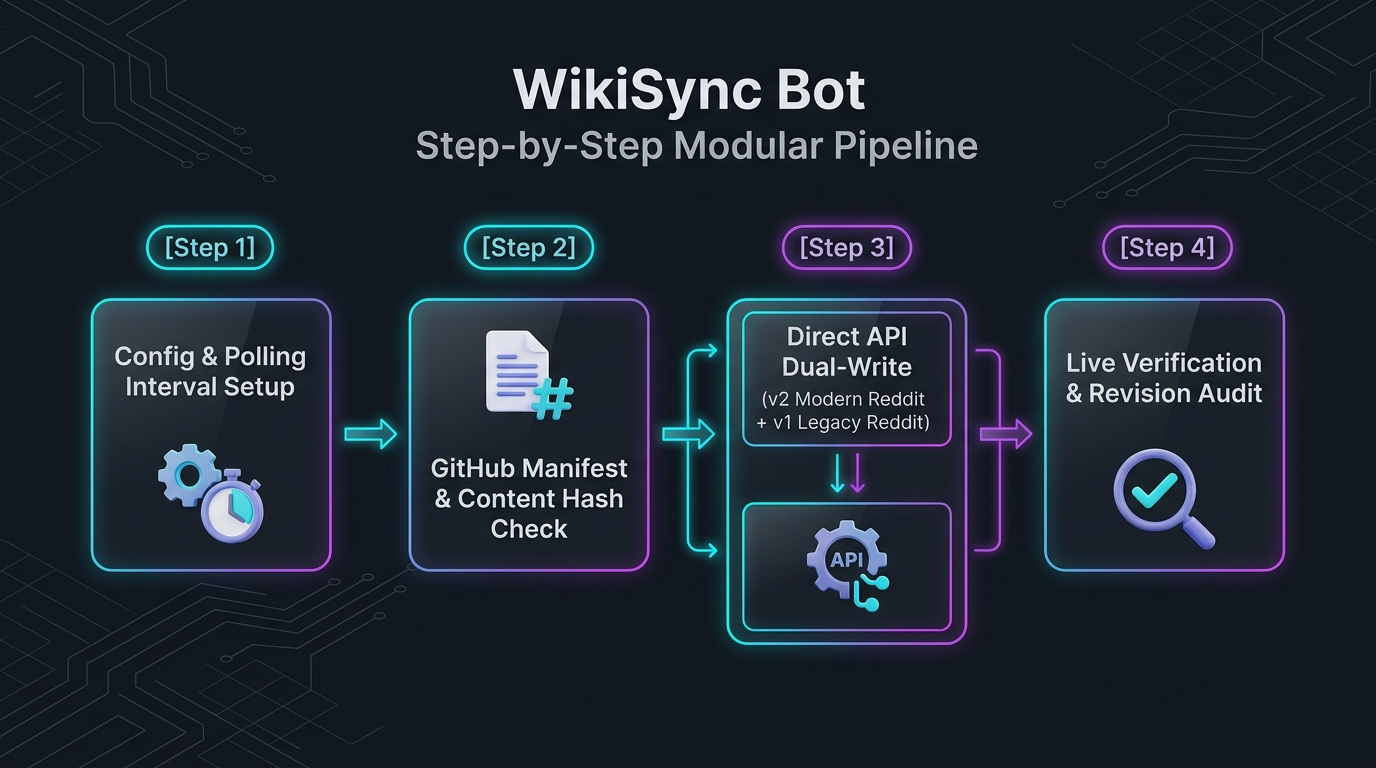
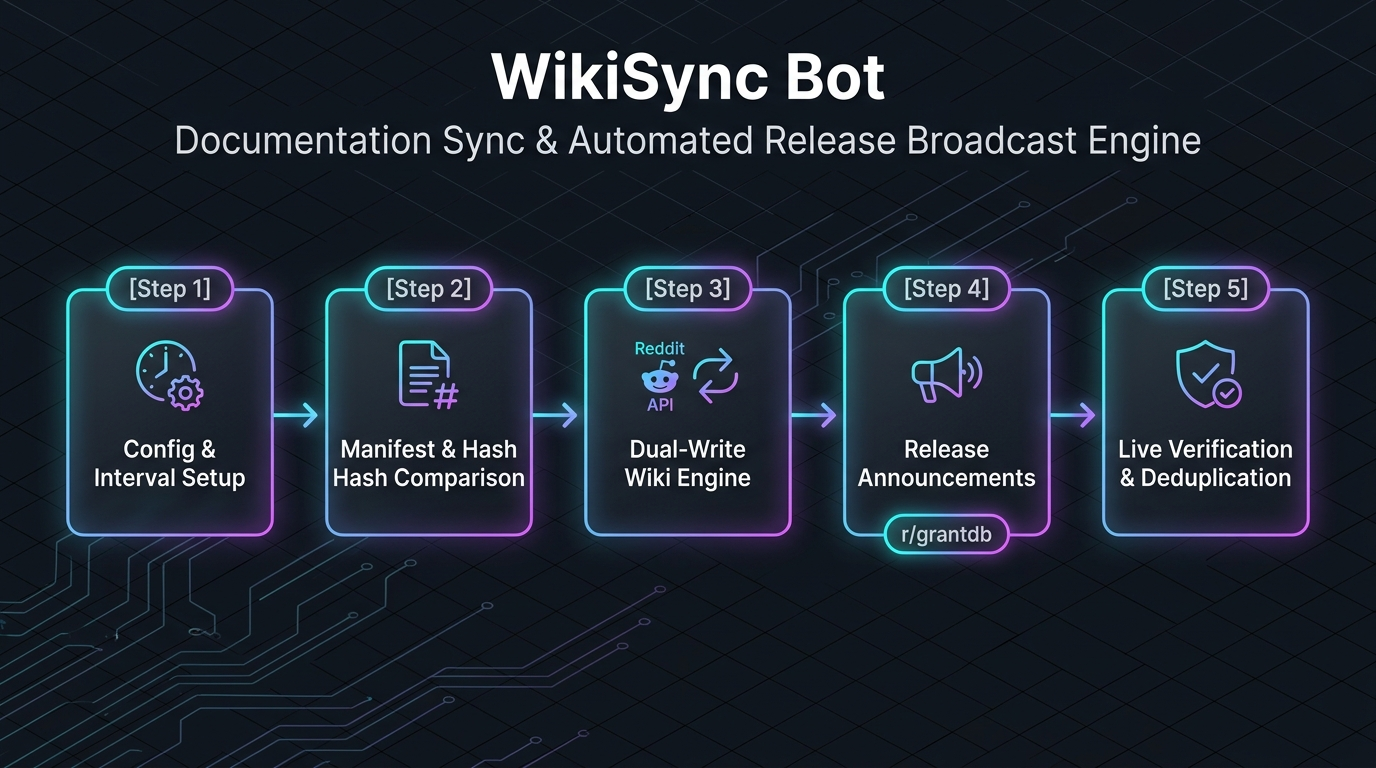
chore: update assets for wiki-sync-bot v0.0.23

diff --git a/wiki-sync-bot/readme.html b/wiki-sync-bot/readme.html
@@ -12,7 +12,8 @@
 <li><strong>Dual-Version Subreddit Wiki Writes</strong>: Direct programmatic synchronization to both modern (`v2`) and legacy (`v1`) Reddit wiki endpoints.</li>
 <li><strong>Support Schema Synchronization</strong>: Automatically deploys `bot_knowledge` JSON payloads to `r/grantdb/wiki/bot_knowledge` bypassing rich-text quote mangling.</li>
 <li><strong>Fleet Documentation Sync</strong>: Incremental background hash comparison and synchronization across all fleet application documentation pages.</li>
-<li><strong>Unified Moderator Menu Popout</strong>: Open <strong>WikiSync Bot</strong> from the subreddit overflow menu (`...`) to run incremental syncs, single-app updates, full re-syncs, or schema deployments.</li>
+<li><strong>Automated Release Announcements</strong>: Automatically detects new app releases and publishes structured update threads with changelog notes and wiki guides directly to <strong>r/grantdb</strong>.</li>
+<li><strong>Unified Moderator Menu Popout</strong>: Open <strong>WikiSync Bot</strong> from the subreddit overflow menu (`...`) to run incremental syncs, single-app updates, full re-syncs, schema deployments, or broadcast immediate app release announcements.</li>
 <li><strong>Moderator-Restricted Controls</strong>: Built-in permissions ensuring only authorized community moderators can trigger wiki sync operations.</li>
 </ul>
 <p>---</p>
@@ -21,20 +22,21 @@
 <h2>How It Works</h2>
 <p><a href="https://raw.githubusercontent.com/grantdb/reddit-app-legal/main/assets/flowcharts/wiki-sync-bot-flowchart.png">Logic Flowchart</a></p>
 <h3>Your Four-Step Workflow</h3>
-<p>1. <strong>Install \u0026 Schedule</strong>: WikiSync Bot automatically schedules a recurring 15-minute background sync and configures test targets in Mod Tools > App Settings.</p>
-<p>2. <strong>Sync Manifest</strong>: WikiSync Bot checks the remote fleet manifest (`wiki-manifest.json`) for updated content hashes.</p>
-<p>3. <strong>Dual-Write Engine</strong>: Fetches clean HTML/JSON payloads from GitHub and writes directly to Reddit wiki endpoints (`index/all-apps/<slug>` + `<slug>` + `bot_knowledge`).</p>
-<p>4. <strong>Live Verification</strong>: Reads back and verifies the updated wiki page revisions, updating local cache.</p>
+<p>1. <strong>Install & Schedule</strong>: WikiSync Bot automatically schedules a recurring 15-minute background sync and configures test targets in Mod Tools > App Settings.</p>
+<p>2. <strong>Sync Manifest</strong>: WikiSync Bot checks the remote fleet manifest (`wiki-manifest.json`) and release manifest (`releases/manifest.json`).</p>
+<p>3. <strong>Dual-Write & Broadcast Engine</strong>: Fetches clean HTML/JSON payloads from GitHub, writes directly to Reddit wiki endpoints, and posts release announcements for newly shipped versions.</p>
+<p>4. <strong>Live Verification & Deduplication</strong>: Reads back and verifies the updated wiki page revisions and caches announcement IDs in Redis to guarantee zero duplicate posts.</p>
 <p>---</p>
 <h2>Quick Setup</h2>
 <p>1. <strong>Install</strong>: Add <strong>WikiSync Bot</strong> to your subreddit.</p>
-<p>2. <strong>Configure</strong>: Open <strong>Mod Tools > App Settings > WikiSync Bot</strong>.</p>
+<p>2. <strong>Configure</strong>: Open <strong>Mod Tools > App Settings > WikiSync Bot</strong> to toggle wiki sync and release announcements.</p>
 <p>3. <strong>Trigger Operations</strong>: Open the subreddit menu (`...`), select <strong>WikiSync Bot</strong>, and choose your action:</p>
 <ul>
 <li><strong>Sync Changed Wiki Pages</strong>: Check manifest and update modified app pages incrementally.</li>
 <li><strong>Sync Single App Wiki</strong>: Fetch and update a specific app's documentation page.</li>
 <li><strong>Force Sync All Wiki Pages</strong>: Full re-synchronization of all fleet wiki pages in the background.</li>
 <li><strong>Sync Bot Knowledge Schema</strong>: Update `bot_knowledge` JSON schema directly.</li>
+<li><strong>Broadcast App Release Announcement</strong>: Immediately publish or re-publish an update announcement post for any fleet app.</li>
 </ul>
 <p>---</p>
 <h2>Support</h2>

diff --git a/wiki-sync-bot/wiki.html b/wiki-sync-bot/wiki.html
@@ -1,7 +1,7 @@
 <h1>WikiSync Bot</h1>
 
 <p>Category: Utility<br>
-Version: v0.0.22<br>
+Version: v0.0.23<br>
 Visibility: Unlisted<br>
 Summary: Subreddit wiki synchronization engine for Reddit communities.</p>
 
@@ -34,6 +34,7 @@ Summary: Subreddit wiki synchronization engine for Reddit communities.</p>
 <h2>Settings Reference</h2>
 <p>Subreddit moderators configure the app in Mod Tools -&gt; App Settings.</p>
 <ul>
+<li>enable_release_announcements: Enable App Release Announcements (boolean, default: true). Automatically post release notes and changelog announcements to r/grantdb when an app is updated.</li>
 <li>test_page_name: Test Wiki Page Path (paragraph, default: index/all-apps/wiki-sync-bot-test). The wiki page path to create or update (e.g. index/all-apps/wiki-sync-bot-test).</li>
 <li>test_content: Test Wiki Content (paragraph, default: # WikiSync Bot Test Page
 
@@ -54,18 +55,19 @@ This is a test wiki page created by WikiSync Bot manual verification.). Markdown
 <p>This app utilizes Reddit Redis storage for state management, caching, and rate limiting.</p>
 <ul>
 <li>Key-Value Strings (deduplication & cooldown markers)</li>
-<li>Key patterns: wikisync:hash:</li>
+<li>Key patterns: announcement:posted:, announcement:lock:, wikisync:hash:</li>
 </ul>
 
 <h2>Setup and Usage</h2>
 <ul>
 <li>Install: Add WikiSync Bot to your subreddit.</li>
-<li>Configure: Open Mod Tools > App Settings > WikiSync Bot.</li>
+<li>Configure: Open Mod Tools > App Settings > WikiSync Bot to toggle wiki sync and release announcements.</li>
 <li>Trigger Operations: Open the subreddit menu (`...`), select WikiSync Bot, and choose your action:</li>
 <li>Sync Changed Wiki Pages: Check manifest and update modified app pages incrementally.</li>
 <li>Sync Single App Wiki: Fetch and update a specific app's documentation page.</li>
 <li>Force Sync All Wiki Pages: Full re-synchronization of all fleet wiki pages in the background.</li>
 <li>Sync Bot Knowledge Schema: Update `bot_knowledge` JSON schema directly.</li>
+<li>Broadcast App Release Announcement: Immediately publish or re-publish an update announcement post for any fleet app.</li>
 </ul>
 
 <h2>Troubleshooting</h2>
@@ -75,11 +77,11 @@ This is a test wiki page created by WikiSync Bot manual verification.). Markdown
 </ul>
 
 <h2>Version History</h2>
+<p>0.0.23 — 2026-09-02<br>
+Standard fleet synchronization and maintenance.</p>
 <p>0.0.22 — 2026-08-31<br>
 Standard fleet synchronization and maintenance.</p>
 <p>0.0.21 — 2026-08-30<br>
-Standard fleet synchronization and maintenance.</p>
-<p>0.0.20 — 2026-08-25<br>
 Standard fleet synchronization and maintenance.</p>
 
 <h2>Links</h2>

diff --git a/wiki-sync-bot/readme.md b/wiki-sync-bot/readme.md
@@ -18,7 +18,8 @@ WikiSync Bot provides subreddit moderators with a high-reliability engine to pub
 - **Dual-Version Subreddit Wiki Writes**: Direct programmatic synchronization to both modern (`v2`) and legacy (`v1`) Reddit wiki endpoints.
 - **Support Schema Synchronization**: Automatically deploys `bot_knowledge` JSON payloads to `r/grantdb/wiki/bot_knowledge` bypassing rich-text quote mangling.
 - **Fleet Documentation Sync**: Incremental background hash comparison and synchronization across all fleet application documentation pages.
-- **Unified Moderator Menu Popout**: Open **WikiSync Bot** from the subreddit overflow menu (`...`) to run incremental syncs, single-app updates, full re-syncs, or schema deployments.
+- **Automated Release Announcements**: Automatically detects new app releases and publishes structured update threads with changelog notes and wiki guides directly to **r/grantdb**.
+- **Unified Moderator Menu Popout**: Open **WikiSync Bot** from the subreddit overflow menu (`...`) to run incremental syncs, single-app updates, full re-syncs, schema deployments, or broadcast immediate app release announcements.
 - **Moderator-Restricted Controls**: Built-in permissions ensuring only authorized community moderators can trigger wiki sync operations.
 
 ---
@@ -29,6 +30,7 @@ WikiSync Bot provides subreddit moderators with a high-reliability engine to pub
 | :--- | :--- |
 | Manually copying and pasting documentation across multiple subreddit wiki pages | **Automated background synchronization** comparing SHA-256 hashes and updating changed pages |
 | Rich-text editors corrupting JSON quotes into curly quotes | **Direct API dual-writes (v2 + v1)** preserving raw formatting perfectly |
+| Forgetting to post release announcements on r/grantdb | **Automated release broadcast engine** publishing changelogs directly to r/grantdb |
 | Complex custom OAuth2 wiki scripts on external VPS servers | **Native Devvit architecture** operating securely inside Reddit infrastructure |
 | Missing audit trails for wiki revisions | **Structured revision reasons** logged with every page creation and update |
 
@@ -40,22 +42,23 @@ WikiSync Bot provides subreddit moderators with a high-reliability engine to pub
 
 ### Your Four-Step Workflow
 
-1. **Install \u0026 Schedule**: WikiSync Bot automatically schedules a recurring 15-minute background sync and configures test targets in Mod Tools > App Settings.
-2. **Sync Manifest**: WikiSync Bot checks the remote fleet manifest (`wiki-manifest.json`) for updated content hashes.
-3. **Dual-Write Engine**: Fetches clean HTML/JSON payloads from GitHub and writes directly to Reddit wiki endpoints (`index/all-apps/<slug>` + `<slug>` + `bot_knowledge`).
-4. **Live Verification**: Reads back and verifies the updated wiki page revisions, updating local cache.
+1. **Install & Schedule**: WikiSync Bot automatically schedules a recurring 15-minute background sync and configures test targets in Mod Tools > App Settings.
+2. **Sync Manifest**: WikiSync Bot checks the remote fleet manifest (`wiki-manifest.json`) and release manifest (`releases/manifest.json`).
+3. **Dual-Write & Broadcast Engine**: Fetches clean HTML/JSON payloads from GitHub, writes directly to Reddit wiki endpoints, and posts release announcements for newly shipped versions.
+4. **Live Verification & Deduplication**: Reads back and verifies the updated wiki page revisions and caches announcement IDs in Redis to guarantee zero duplicate posts.
 
 ---
 
 ## Quick Setup
 
 1. **Install**: Add **WikiSync Bot** to your subreddit.
-2. **Configure**: Open **Mod Tools > App Settings > WikiSync Bot**.
+2. **Configure**: Open **Mod Tools > App Settings > WikiSync Bot** to toggle wiki sync and release announcements.
 3. **Trigger Operations**: Open the subreddit menu (`...`), select **WikiSync Bot**, and choose your action:
    - **Sync Changed Wiki Pages**: Check manifest and update modified app pages incrementally.
    - **Sync Single App Wiki**: Fetch and update a specific app's documentation page.
    - **Force Sync All Wiki Pages**: Full re-synchronization of all fleet wiki pages in the background.
    - **Sync Bot Knowledge Schema**: Update `bot_knowledge` JSON schema directly.
+   - **Broadcast App Release Announcement**: Immediately publish or re-publish an update announcement post for any fleet app.
 
 ---
 

diff --git a/wiki-sync-bot/wiki.md b/wiki-sync-bot/wiki.md
@@ -1,7 +1,7 @@
 # WikiSync Bot
 
 Category: Utility  
-Version: v0.0.22  
+Version: v0.0.23  
 Visibility: Unlisted  
 Summary: Subreddit wiki synchronization engine for Reddit communities.
 
@@ -29,6 +29,7 @@ Subreddit wiki synchronization engine for Reddit communities.
 ## Settings Reference
 Subreddit moderators configure the app in Mod Tools -> App Settings.
 
+- enable_release_announcements: Enable App Release Announcements (boolean, default: true). Automatically post release notes and changelog announcements to r/grantdb when an app is updated.
 - test_page_name: Test Wiki Page Path (paragraph, default: index/all-apps/wiki-sync-bot-test). The wiki page path to create or update (e.g. index/all-apps/wiki-sync-bot-test).
 - test_content: Test Wiki Content (paragraph, default: # WikiSync Bot Test Page
 
@@ -46,29 +47,30 @@ This is a test wiki page created by WikiSync Bot manual verification.). Markdown
 This app utilizes Reddit Redis storage for state management, caching, and rate limiting.
 
 - Key-Value Strings (deduplication & cooldown markers)
-- Key patterns: wikisync:hash:
+- Key patterns: announcement:posted:, announcement:lock:, wikisync:hash:
 
 ## Setup and Usage
 - Install: Add WikiSync Bot to your subreddit.
-- Configure: Open Mod Tools > App Settings > WikiSync Bot.
+- Configure: Open Mod Tools > App Settings > WikiSync Bot to toggle wiki sync and release announcements.
 - Trigger Operations: Open the subreddit menu (`...`), select WikiSync Bot, and choose your action:
 - Sync Changed Wiki Pages: Check manifest and update modified app pages incrementally.
 - Sync Single App Wiki: Fetch and update a specific app's documentation page.
 - Force Sync All Wiki Pages: Full re-synchronization of all fleet wiki pages in the background.
 - Sync Bot Knowledge Schema: Update `bot_knowledge` JSON schema directly.
+- Broadcast App Release Announcement: Immediately publish or re-publish an update announcement post for any fleet app.
 
 ## Troubleshooting
 - Check app console logs via devvit logs <subreddit> for real-time diagnostic output.
 - Ensure all required app settings and API keys are properly configured in Mod Tools.
 
 ## Version History
+0.0.23 — 2026-09-02
+- Standard fleet synchronization and maintenance.
+
 0.0.22 — 2026-08-31
 - Standard fleet synchronization and maintenance.
 
 0.0.21 — 2026-08-30
-- Standard fleet synchronization and maintenance.
-
-0.0.20 — 2026-08-25
 - Standard fleet synchronization and maintenance.
 
 ## Links
